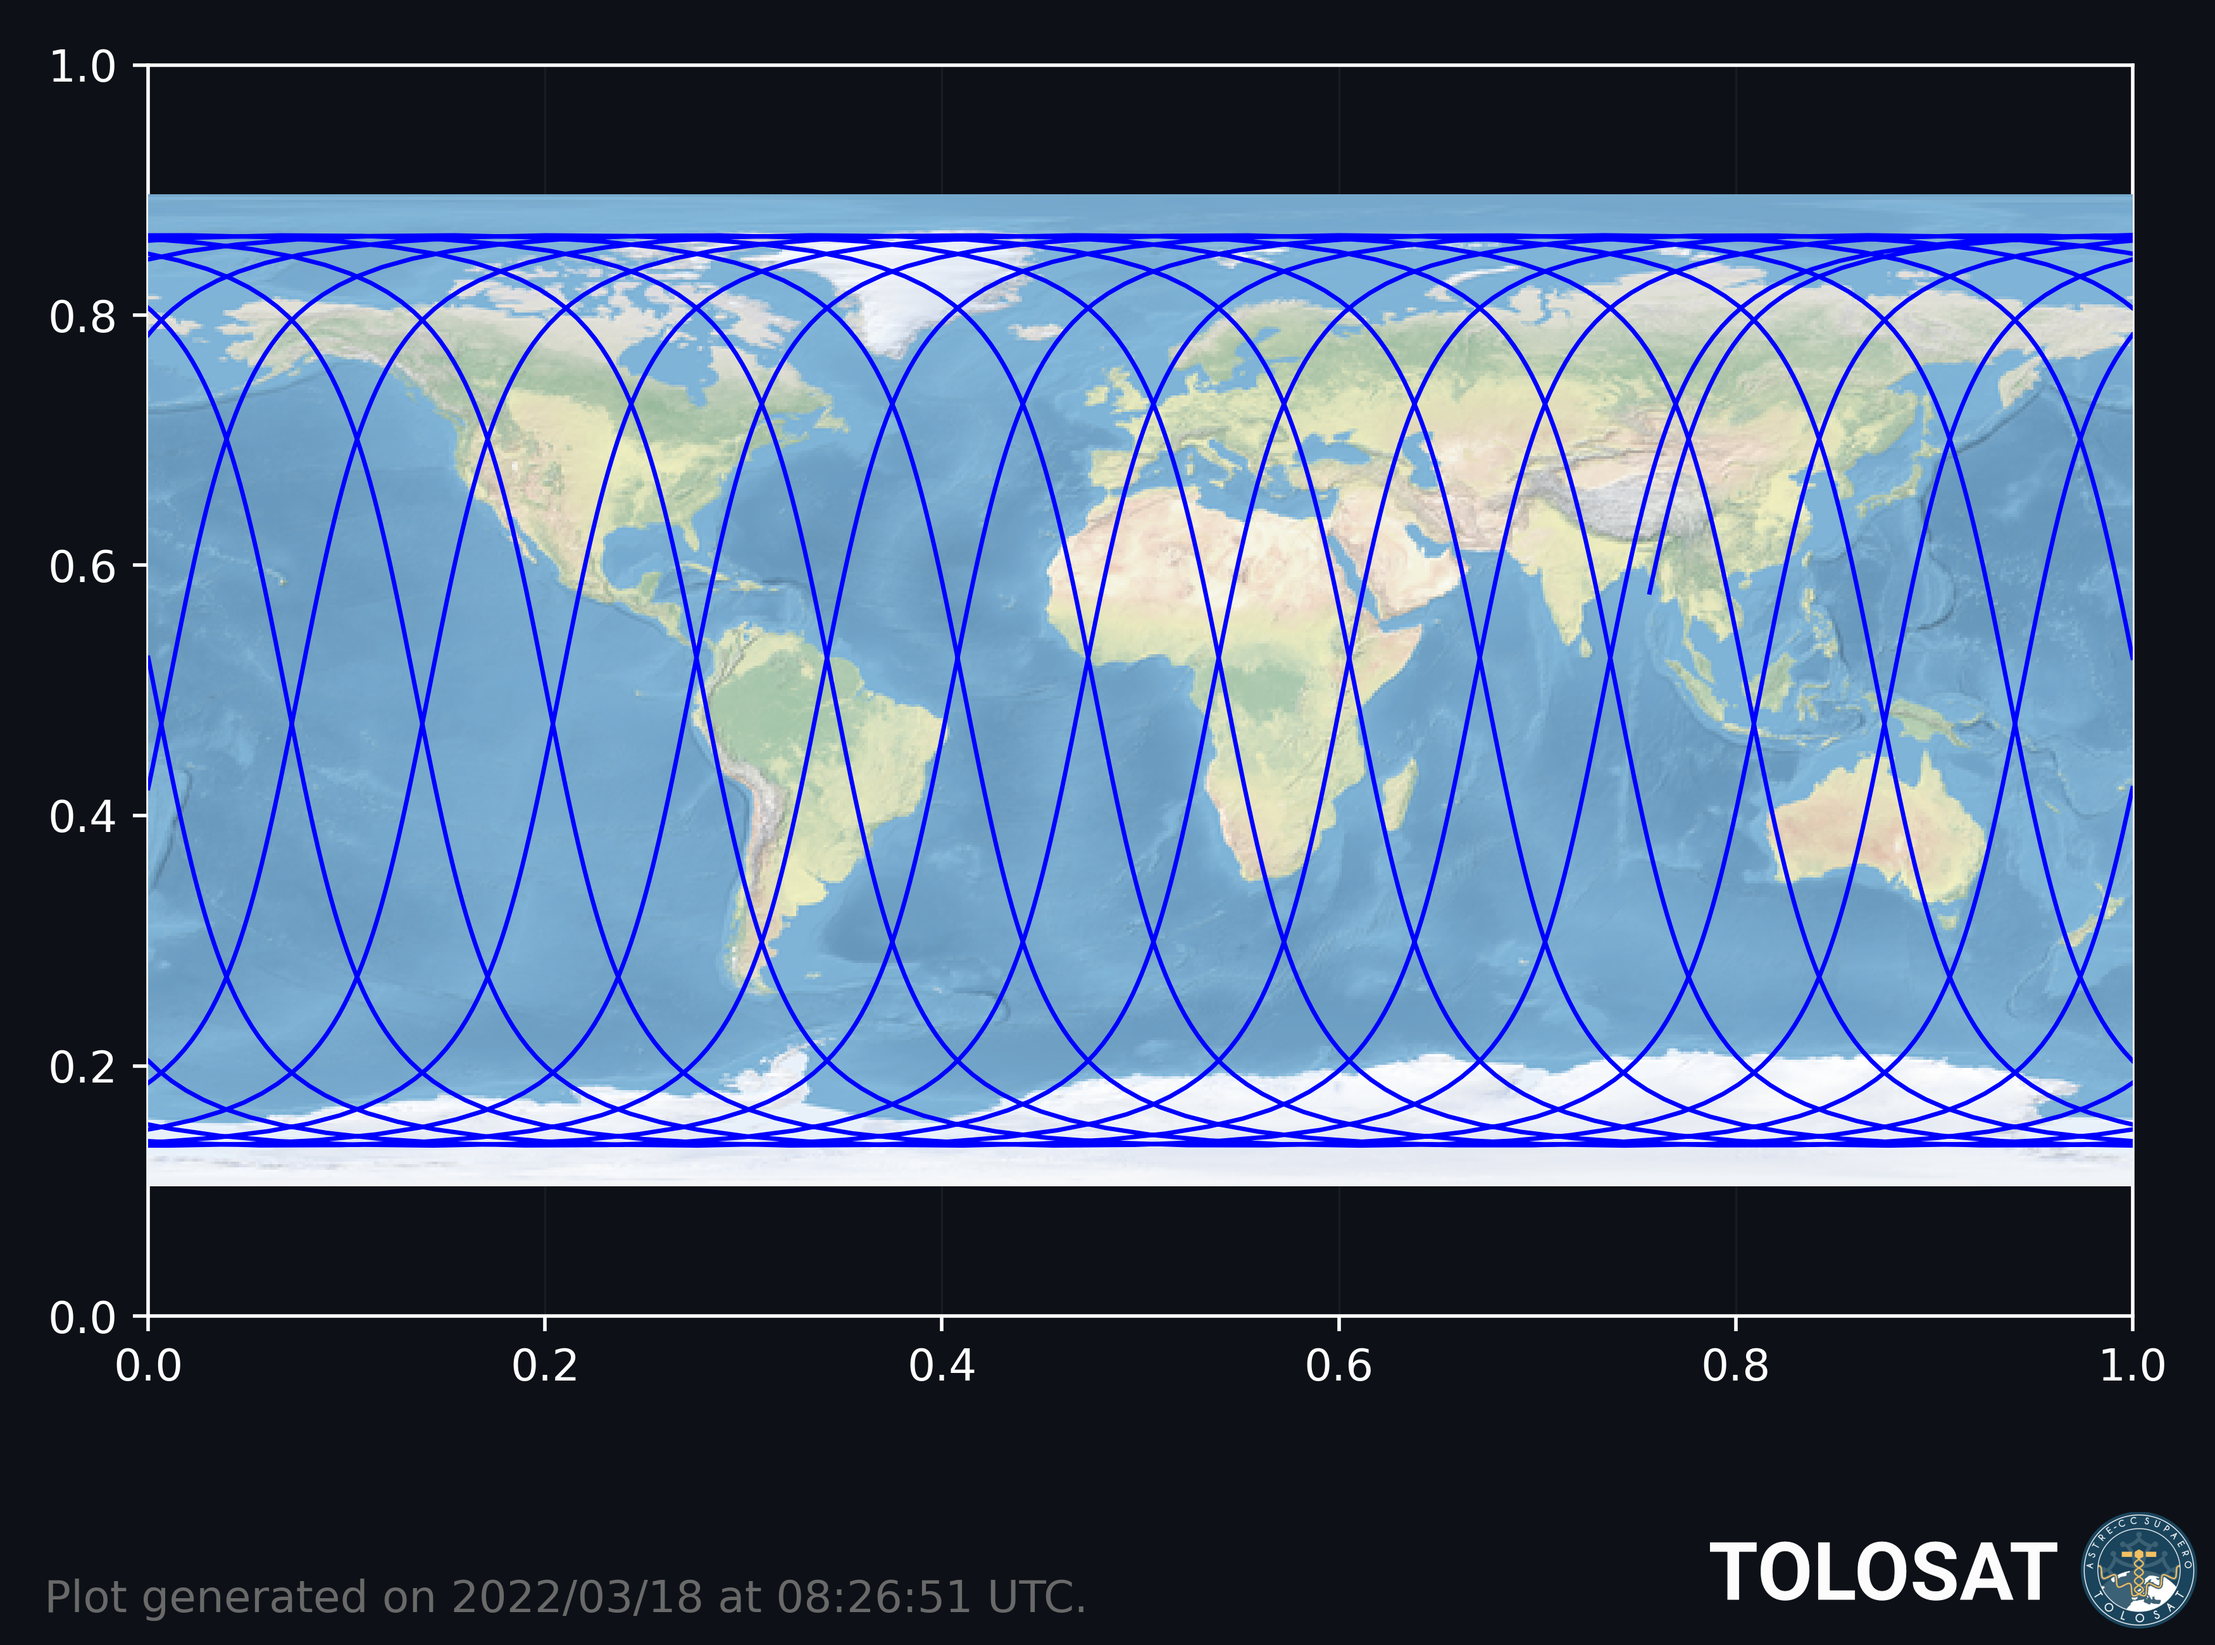
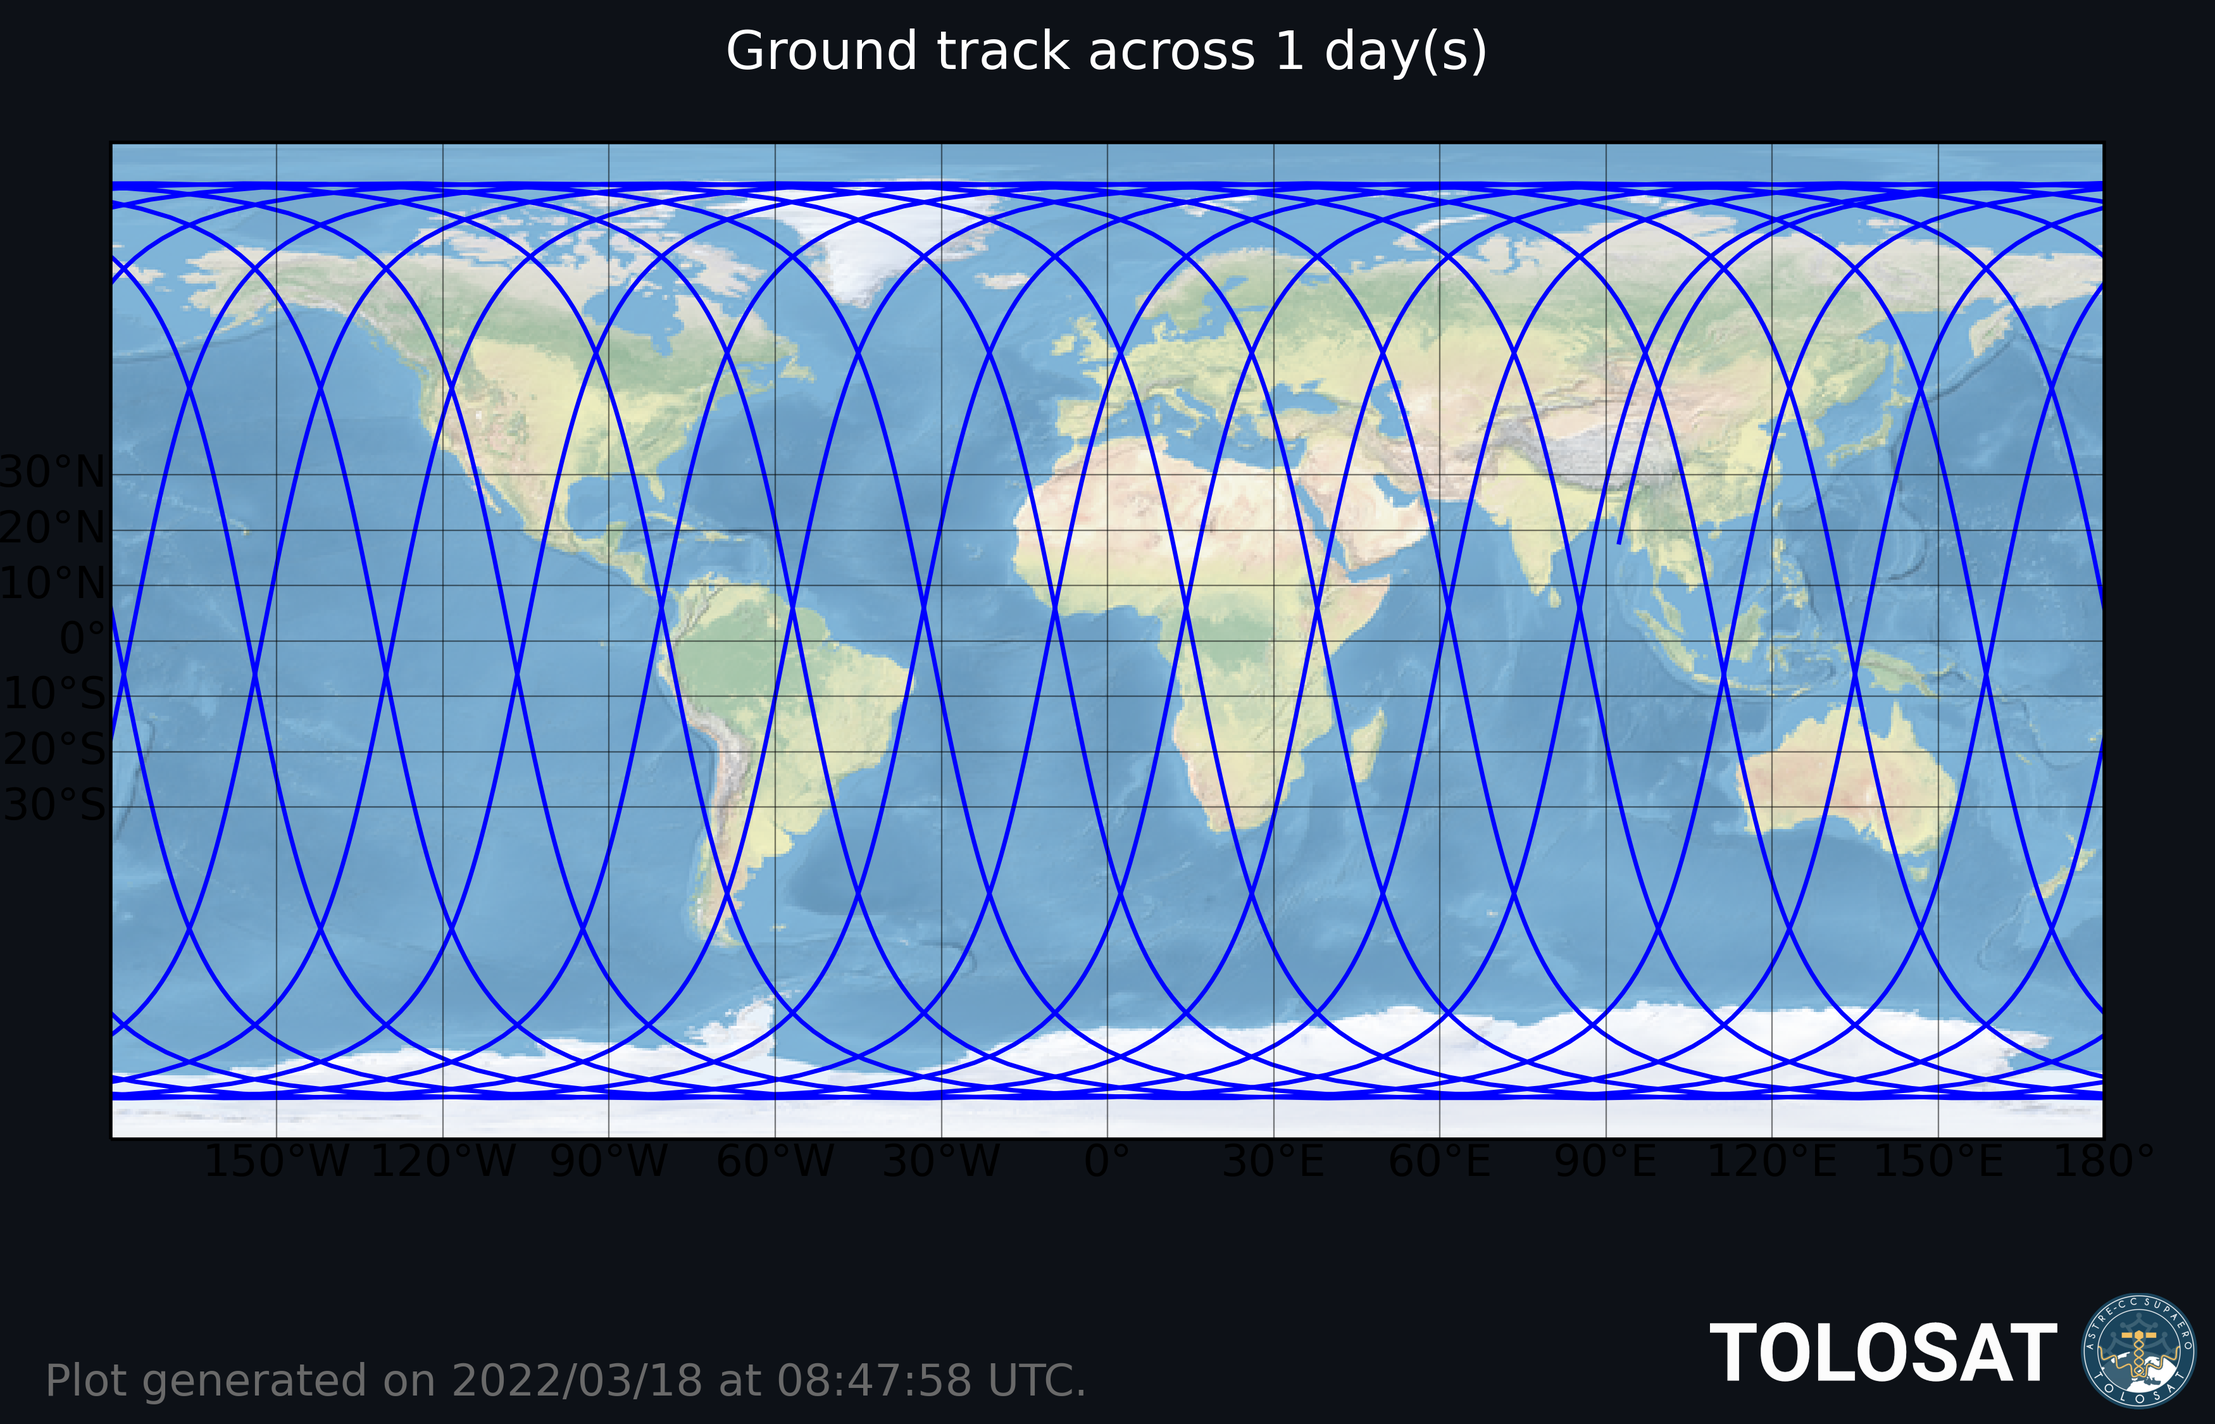
More work on ground track plot

diff --git a/PythonPlots/PrettyVisuals.py b/PythonPlots/PrettyVisuals.py
@@ -22,12 +22,18 @@ pos_lla[:, ::1] = pos_lla[:, ::1] * 180 / pi
 earthRadius = 6.3781e6
 
 # Figures
-F1, _ = dark_figure()
+F1, axes = dark_figure(figsize=(7, 4.5))
+axes[0].axis('off')
 axes = plt.axes(projection=ccrs.PlateCarree())
 axes.stock_img()
 axes.set_global()
 axes.plot(pos_lla[:, 0], pos_lla[:, 1], color='blue', linewidth=1, transform=ccrs.Geodetic())
-axes.axis('off')
+# gl = axes.gridlines(crs=ccrs.PlateCarree(), draw_labels=True,
+#                   xlocs=np.arange(-150,360,30), ylocs=np.arange(-30, 40,10),
+#                   x_inline=False, y_inline=False, linewidth=0.33, color='k',alpha=0.5)
+# gl.right_labels = False
+# gl.top_labels = False
+plt.suptitle("Ground track across " + str(int(cjd[-1][0] - cjd0[0])) + " day(s)", color='white')
 finish_figure(F1, target_folder + '/' + target_folder + '_GroundTrack.png', show=True)
 
 tmp_xTime = (cjd - cjd0)
